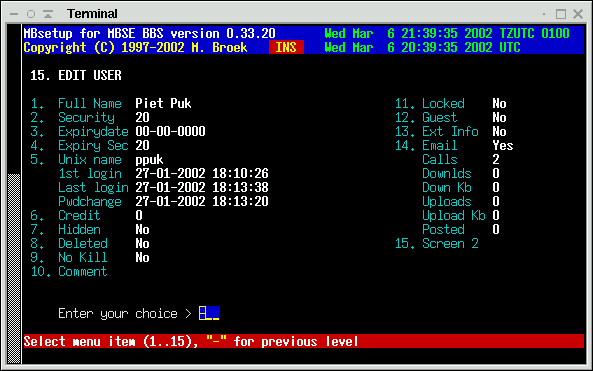
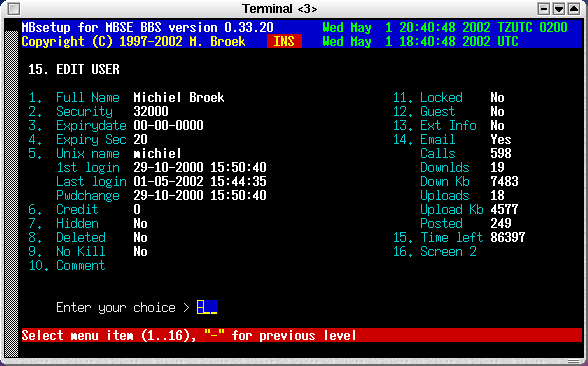
Updated documentation

Changed region(s): [[0.0, 0.0, 1.0, 1.0], [0.6429, 0.2404, 0.8878, 0.6913]]

diff --git a/html/setup/users.html b/html/setup/users.html
@@ -12,7 +12,7 @@
 </HEAD>
 <BODY>
 <BLOCKQUOTE>
-<h5>Last update 06-Mar-2002</h5>
+<h5>Last update 01-May-2002</h5>
 <P>&nbsp;<P>
 
 <H1>MBSE BBS Setup - BBS Users.</H1>
@@ -56,6 +56,7 @@ Fields that can be changed by the users themselves are in the second screen.
 <strong>Uploads      </strong>Displays the number of uploads.
 <strong>Upload Kb    </strong>Displays the number of Kilobytes uploaded.
 <strong>Posted       </strong>Displays the number of messages posted.
+<strong>Time left    </strong>Show the time left in minuts and reset the time.
 <strong>Screen 2     </strong>Go to next setup screen.
 </pre>
 Watch out when changing the unix userid of the user, you need to change the
@@ -98,8 +99,8 @@ system password file and the users home directory manually.
 <IMG SRC="../images/users2.png">
 <P>
 
-<A HREF="./"><IMG SRC="../images/larrow.gif" ALT="Back" Border="0" width="40" height="30">  Back to index</A>&nbsp;
-<A HREF="../"><IMG SRC="../images/b_arrow.gif" ALT="Home" Border="0" width="33" height="35">  Back to main index</A>
+<A HREF="./"><IMG SRC="../images/larrow.gif" ALT="Back" Border="0">Back to index</A>&nbsp;
+<A HREF="../"><IMG SRC="../images/b_arrow.gif" ALT="Home" Border="0">Back to main index</A>
 </BLOCKQUOTE>
 </BODY>
 </HTML>

diff --git a/html/programs/mbfido.html b/html/programs/mbfido.html
@@ -12,7 +12,7 @@
 </HEAD>
 <BODY>
 <BLOCKQUOTE>
-<h5>Last update 21-Jan-2002</h5>
+<h5>Last update 01-May-2002</h5>
 <P>&nbsp;<P>
 
 <H1>mbfido, the fidonet mail and files processor.</H1>
@@ -136,6 +136,15 @@ contain a line: "Reply-To: jsmith@mbse.nl".
 <P>&nbsp;<P>
 
 <H3>Commands.</H3>
+<P>
+<code><strong>mbfido</strong> areas</code>
+This command will check all file and mail groups if areas files are defined and
+if the setting <b>Auto change</b> is set to Yes. Then the areafile is read and
+the areas in that file are compared with the defined areas. Missing areas are
+created and areas not in the areafile are removed or blocked depending if there
+are files or messages present in these areas. This is also a good command to
+create large bulks of new areas on your system.
+
 <P>
 <code><strong>mbfido</strong> mail &lt;recipient&gt;</code>
 This command is used by your MTA to deliver email addressed to for example

diff --git a/html/setup/emgroup.html b/html/setup/emgroup.html
@@ -12,7 +12,7 @@
 </HEAD>
 <BODY>
 <BLOCKQUOTE>
-<h5>Last update 16-Feb-2002</h5>
+<h5>Last update 01-May-2002</h5>
 <P>&nbsp;<P>
 
 <H1>MBSE BBS Setup - Mail Setup - Message Groups.</H1>
@@ -50,7 +50,7 @@ skip a number of extra areas for future expansion.
 <strong>Quotes      </strong>Append a quote when user writes in auto created areas.
 <strong>Active      </strong>If this group is active.
 <strong>Deleted     </strong>If this group must be deleted.
-<strong>Auto change </strong>Change areas when a new areas list is received.
+<strong>Auto change </strong>Change areas when running <b>mbfido areas</b>.
 <strong>User change </strong>Create/delete areas when users connect/disconnect.
 <strong>Use Aka     </strong>The Fidonet aka to use.
 <strong>Uplink      </strong>The Fidonet aka of your uplink.

diff --git a/html/setup/fegroup.html b/html/setup/fegroup.html
@@ -12,7 +12,7 @@
 </HEAD>
 <BODY>
 <BLOCKQUOTE>
-<h5>Last update 23-Apr-2001</h5>
+<h5>Last update 01-May-2001</h5>
 <P>&nbsp;<P>
 
 <H1>MBSE BBS Setup - File Echo's Setup - File Groups.</H1>
@@ -66,7 +66,7 @@ to divide between your downlinks or let them all pay the full price.
 <strong>Unit Size </strong>The size in Kbytes per unit.
 <strong>Add Prom. </strong>The prommilage to add to the cost.
 <strong>Divide    </strong>Divide cost over downlinks.
-<strong>Auto chng </strong>Auto change areas on new areas file. (Not yet working).
+<strong>Auto chng </strong>Auto change when running <b>mbfido areas</b>
 <strong>User chng </strong>Auto create areas on downlinks requests.
 <strong>Replace   </strong>Set replace option in new areas.
 <strong>Dupecheck </strong>Set Dupecheck option in new areas.

diff --git a/html/setup/fileecho.html b/html/setup/fileecho.html
@@ -12,7 +12,7 @@
 </HEAD>
 <BODY>
 <BLOCKQUOTE>
-<h5>Last update 08-Jun-2001</h5>
+<h5>Last update 01-May-2002</h5>
 <P>&nbsp;<P>
 
 <H1>MBSE BBS Setup - File Echo's Setup - TIC Areas.</H1>
@@ -62,7 +62,7 @@ the number of files (nodelists).
 <strong>Systems    </strong>To the screen with connected systems.
 </pre>
 <P>
-<IMG SRC="../images/fileecho.gif" width="589" height="343">
+<IMG SRC="../images/fileecho.gif">
 <P>
 
 
